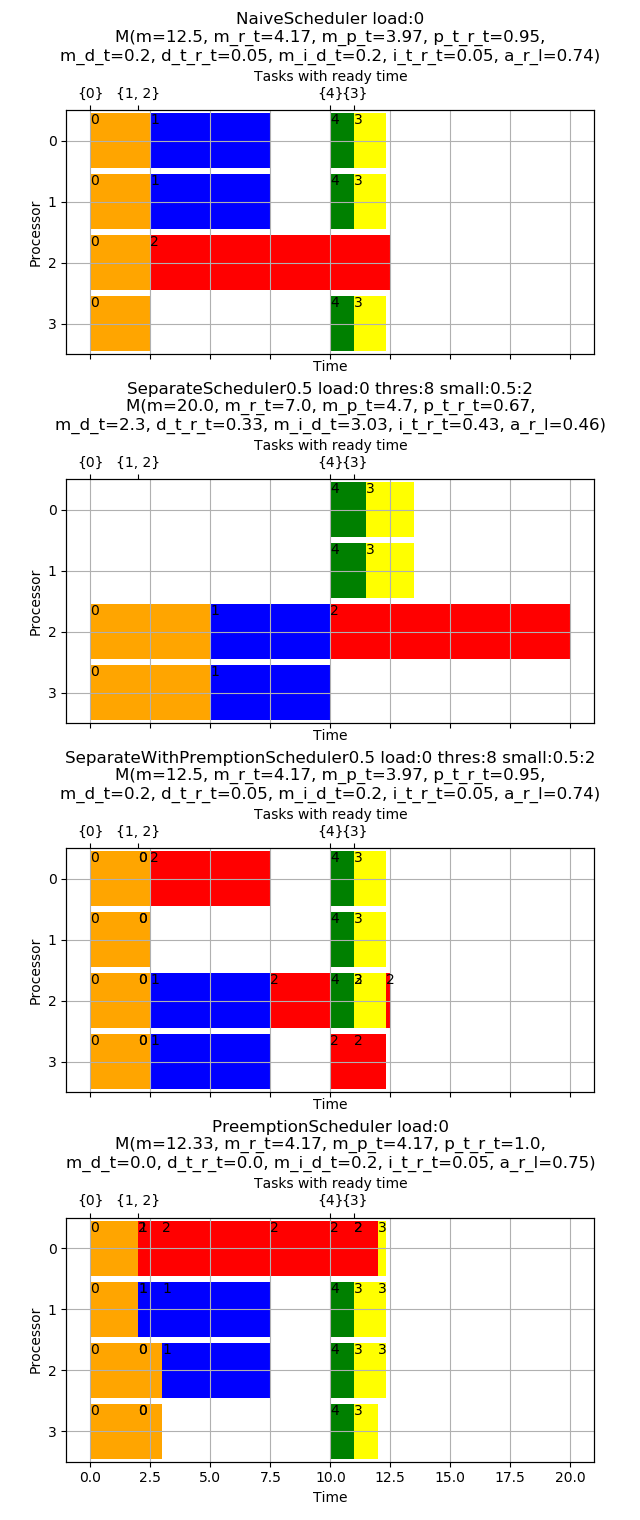
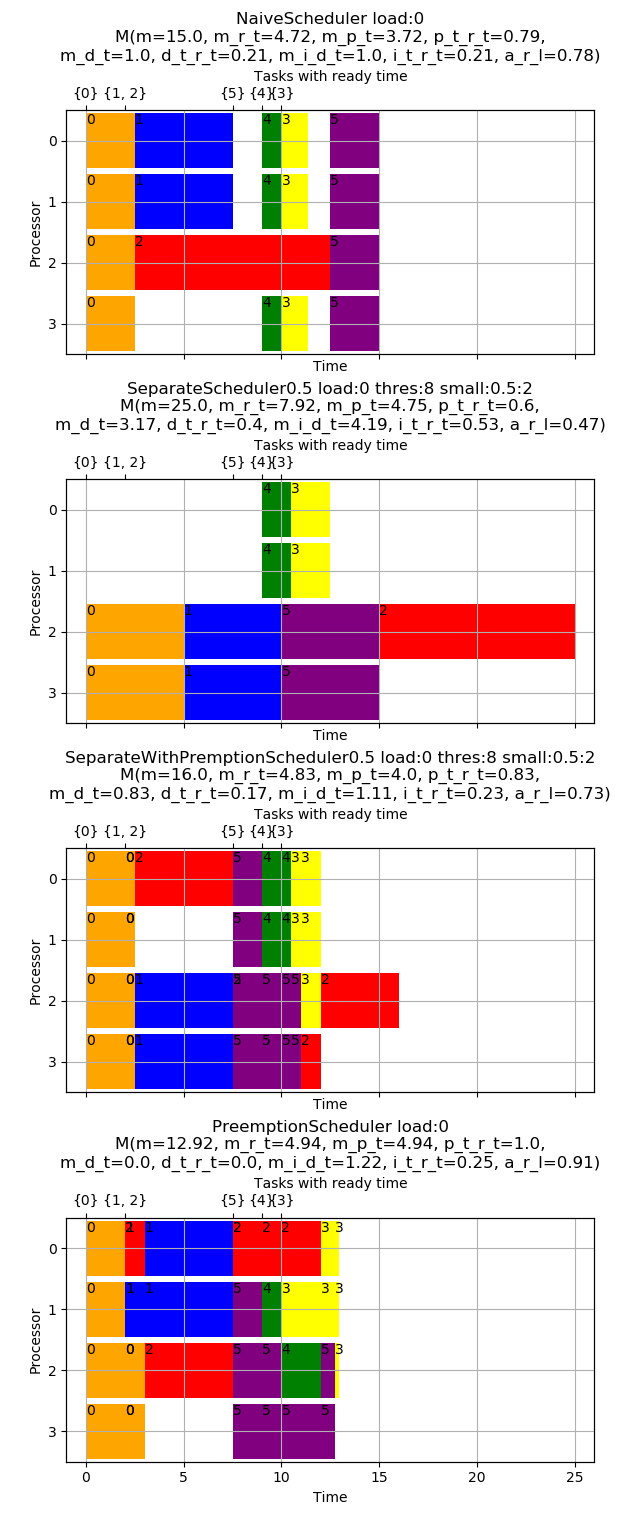
cost functions template

diff --git a/main.py b/main.py
@@ -1,3 +1,4 @@
+from cost_functions import concave_function
 from models import Task
 from generator import Generator
 from schedulers.naive import NaiveScheduler
@@ -6,10 +7,6 @@ from schedulers.preemption import PreemptionScheduler
 from schedulers.separate_with_premption import SeparateWithPremptionScheduler
 from plot import print_schedulings, print_metrics
 from metrics import get_metrics
-
-
-def cost_function(task: Task, n: int):
-    return task.base_length / n
 
 
 def research():
@@ -23,7 +20,9 @@ def research():
         if cov > 2:
             n = 10000
         gen = Generator(task_number=n, processors_number=n_procesors,
-                        coefficient_of_variation=cov, max_load=max_load, max_part_of_processors_number=1.0,
+                        coefficient_of_variation=cov, max_load=max_load,
+                        length_function=concave_function,
+                        max_part_of_processors_number=1.0,
                         print_plots=False)
         instance = gen.generate()
         metr = {}
@@ -62,11 +61,12 @@ def research():
 
 def test():
     instance = [
-        Task(0, 0, 1, 10, 10, cost_function),
-        Task(1, 2, 1, 2, 10, cost_function),
-        Task(2, 2, 1, 1, 10, cost_function),
-        Task(3, 11, 1, 3, 4, cost_function),
-        Task(4, 10, 1, 3, 3, cost_function),
+        Task(0, 0, 1, 10, 10, concave_function),
+        Task(1, 2, 1, 2, 10, concave_function),
+        Task(2, 2, 1, 1, 10, concave_function),
+        Task(3, 10, 1, 3, 4, concave_function),
+        Task(4, 9, 1, 3, 3, concave_function),
+        Task(5, 7.5, 1, 10, 10, concave_function)
     ]
     treshold = 8
     n_proc = 4

diff --git a/generator.py b/generator.py
@@ -1,9 +1,10 @@
-from typing import Callable, Tuple, List
+from typing import Callable, Tuple, List, Any
 import random
 import numpy as np
 import matplotlib.pyplot as plt
 
 from models import Task
+from cost_functions import concave_function
 
 
 class Generator:
@@ -20,6 +21,7 @@ class Generator:
                  coefficient_of_variation: float,
                  max_load: float,
                  max_part_of_processors_number: float = 1,
+                 length_function: Callable[[Task, int], float] = concave_function,
                  print_plots=False):
         self.n = task_number
         self.processors_number = processors_number
@@ -29,7 +31,7 @@ class Generator:
         self._p_of_big, self._min_max_small, self._min_max_big = Generator.SETTINGS[self.coefficient_of_variation]
         self.max_part_of_processors_number = max_part_of_processors_number
         self.print_plots = print_plots
-        self.length_function = lambda z, n: z.base_length / n
+        self.length_function = length_function
 
     def generate(self):
         print("===== Data generation =====")

diff --git a/cost_functions.py b/cost_functions.py
@@ -1,0 +1,16 @@
+from models import Task
+
+
+# wklesla
+def concave_function(task: Task, n: int) -> float:
+    return task.base_length / n
+
+
+# liniowa
+def linear_function(task: Task, n: int) -> float:
+    return task.base_length / n
+
+
+# wypukla
+def convex_function(task: Task, n: int) -> float:
+    return task.base_length / n
